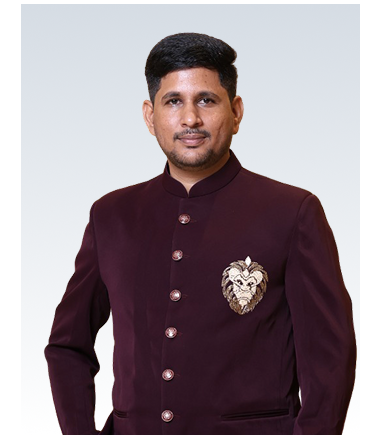
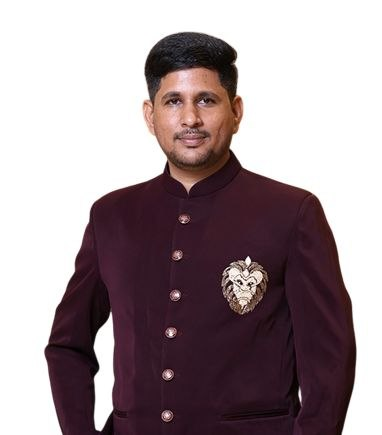
Update About page leadership section and profile images

diff --git a/src/pages/About.jsx b/src/pages/About.jsx
@@ -1,6 +1,7 @@
+
 import React from "react";
 import { motion } from "framer-motion";
-import { Flag, Eye } from "lucide-react";
+import { Flag, Eye, Linkedin } from "lucide-react";
 
 const About = () => {
   return (
@@ -18,20 +19,20 @@ const About = () => {
       </div>
 
       <div className="relative z-10">
-        <section className="relative flex min-h-[88svh] items-center justify-center overflow-hidden px-6 py-24 text-center md:py-28">
+        <section className="relative flex min-h-[72svh] items-center justify-center overflow-hidden px-6 pt-36 pb-20 text-center md:pt-32 md:pb-24">
           <motion.div
             initial={{ opacity: 0, y: 24 }}
             animate={{ opacity: 1, y: 0 }}
             transition={{ duration: 0.8 }}
-            className="relative z-10 mx-auto max-w-4xl"
+            className="relative z-10 mx-auto mt-4 md:mt-0 max-w-4xl"
           >
-            <div className="mx-auto inline-flex items-center gap-2 rounded-full border border-[#89b6ff]/35 bg-white/5 px-4 py-2 text-[12px] font-medium tracking-wide text-[#cfe0ff] backdrop-blur-xl">
+            <div className="mx-auto mt-14 md:mt-0 inline-flex items-center gap-2 rounded-full border border-[#89b6ff]/35 bg-white/5 px-4 py-2 text-[12px] font-medium tracking-wide text-[#cfe0ff] backdrop-blur-xl">
               <span className="h-2 w-2 rounded-full bg-[#4ea3ff]" />
               About T-Home
             </div>
 
-            <h1 className="mt-6 text-4xl font-bold leading-tight md:text-6xl">
-              Empowering Your <span className="text-[#66abff]">Financial Future</span>
+            <h1 className="mt-6 text-[42px] leading-[1.15] font-bold md:text-6xl">
+              Empowering Your <span className="text-[#2d8bff]">Financial Future</span>
             </h1>
 
             <p className="mx-auto mt-5 max-w-3xl text-base leading-8 text-[#d7def3] md:text-lg">
@@ -39,7 +40,7 @@ const About = () => {
               business growth, and compliance services feel straightforward instead of overwhelming.
             </p>
 
-            <div className="mx-auto mt-10 grid max-w-4xl gap-4 sm:grid-cols-3">
+            <div className="mx-auto mt-8 grid max-w-4xl gap-4 sm:grid-cols-3">
               {[
                 { value: "2025", label: "Founded" },
                 { value: "5k+", label: "Happy Clients" },
@@ -57,23 +58,23 @@ const About = () => {
           </motion.div>
         </section>
 
-        <section className="relative w-full py-[100px]">
+        <section className="relative w-full pt-1 pb-20">
           <div className="mx-auto max-w-7xl px-6 md:px-12">
             <div className="mx-auto max-w-4xl text-center">
               <h2 className="text-3xl font-semibold text-white md:text-4xl">A Journey of Trust and Innovation</h2>
-              <p className="mx-auto mt-4 max-w-3xl text-[15px] leading-7 text-[#d7def3]">
+              <p className="mx-auto mt-3 max-w-3xl text-[15px] leading-7 text-[#d7def3]">
                 Founded in 2025, T-Home bridges complex financial systems and everyday goals with a platform designed
                 to be transparent, intelligent, and easy to use.
               </p>
             </div>
 
-            <div className="mt-12 grid gap-6 md:grid-cols-2">
+            <div className="mx-auto mt-10 grid max-w-5xl gap-8 md:grid-cols-2">
               <motion.div
                 initial={{ opacity: 0, x: -30 }}
                 whileInView={{ opacity: 1, x: 0 }}
                 transition={{ duration: 0.7 }}
                 viewport={{ once: true }}
-                className="rounded-[20px] border border-[#c9dcff]/18 bg-[linear-gradient(180deg,rgba(30,45,95,0.5)_0%,rgba(20,31,76,0.44)_100%)] p-7 shadow-[inset_0_1px_0_rgba(255,255,255,0.14),0_10px_28px_rgba(0,0,0,0.2)] backdrop-blur-md"
+                className="rounded-[20px] border border-[#c9dcff]/18 bg-[linear-gradient(180deg,rgba(30,45,95,0.5)_0%,rgba(20,31,76,0.44)_100%)] p-6 shadow-[inset_0_1px_0_rgba(255,255,255,0.14),0_10px_28px_rgba(0,0,0,0.2)] backdrop-blur-md"
               >
                 <h3 className="text-2xl font-semibold text-white">What We Build</h3>
                 <p className="mt-4 text-[15px] leading-7 text-[#e3eeff]/88">
@@ -87,7 +88,7 @@ const About = () => {
                 whileInView={{ opacity: 1, x: 0 }}
                 transition={{ duration: 0.7 }}
                 viewport={{ once: true }}
-                className="rounded-[20px] border border-[#c9dcff]/18 bg-[linear-gradient(180deg,rgba(30,45,95,0.5)_0%,rgba(20,31,76,0.44)_100%)] p-7 shadow-[inset_0_1px_0_rgba(255,255,255,0.14),0_10px_28px_rgba(0,0,0,0.2)] backdrop-blur-md"
+                className="rounded-[20px] border border-[#c9dcff]/18 bg-[linear-gradient(180deg,rgba(30,45,95,0.5)_0%,rgba(20,31,76,0.44)_100%)] p-6 shadow-[inset_0_1px_0_rgba(255,255,255,0.14),0_10px_28px_rgba(0,0,0,0.2)] backdrop-blur-md"
               >
                 <h3 className="text-2xl font-semibold text-white">How We Work</h3>
                 <p className="mt-4 text-[15px] leading-7 text-[#e3eeff]/88">
@@ -99,14 +100,14 @@ const About = () => {
           </div>
         </section>
 
-        <section className="relative w-full py-[100px]">
+        <section className="relative w-full pt-1 pb-20">
           <div className="mx-auto max-w-7xl px-6 text-center md:px-12">
             <h2 className="text-3xl font-semibold text-white md:text-4xl">Our Core Principles</h2>
             <p className="mx-auto mt-3 max-w-2xl text-[#d7def3]">
               The driving force behind everything we do at T-Home.
             </p>
 
-            <div className="mt-12 grid gap-6 md:grid-cols-2">
+            <div className="mt-8 grid gap-6 md:grid-cols-2">
               <motion.div className="rounded-[18px] border border-[#d6e6ff]/18 bg-[linear-gradient(180deg,rgba(44,66,132,0.74)_0%,rgba(25,42,102,0.68)_100%)] p-7 shadow-[inset_0_1px_0_rgba(255,255,255,0.22),0_14px_38px_rgba(0,0,0,0.34)] backdrop-blur-md">
                 <h3 className="mb-3 flex items-center justify-center gap-2 text-xl font-semibold text-white">
                   <Flag className="h-5 w-5 text-[#66abff]" />
@@ -131,53 +132,236 @@ const About = () => {
           </div>
         </section>
 
-        <section className="relative w-full py-[100px]">
+        <section className="relative w-full pt-1 pb-20">
           <div className="mx-auto max-w-7xl px-6 text-center md:px-12">
             <h2 className="text-3xl font-semibold text-white md:text-4xl">Leadership</h2>
             <p className="mx-auto mt-3 max-w-2xl text-[#d7def3]">
               The people shaping the platform and guiding the product direction.
             </p>
 
-            <div className="mt-12 grid gap-6 md:grid-cols-2">
-              {[
-                {
-                  initials: "RR",
-                  name: "Ravinder Reddy Attapuram",
-                  role: "Founder & CEO",
-                  text: "Entrepreneur, strategist, and changemaker leading T-Home toward a future where finance is transparent, easy, and empowering.",
-                },
-                {
-                  initials: "KP",
-                  name: "K C Pratheek Reddy",
-                  role: "Co-Founder & CTO",
-                  text: "The tech visionary behind T-Home’s digital transformation, focused on scalable, intelligent, and reliable product experiences.",
-                },
-              ].map((leader) => (
-                <motion.div
-                  key={leader.name}
-                  className="rounded-[20px] border border-[#c9dcff]/18 bg-[linear-gradient(180deg,rgba(30,45,95,0.5)_0%,rgba(20,31,76,0.44)_100%)] p-8 shadow-[inset_0_1px_0_rgba(255,255,255,0.14),0_10px_28px_rgba(0,0,0,0.2)] backdrop-blur-md"
-                  whileHover={{ y: -4 }}
-                >
-                  <div className="mx-auto flex h-20 w-20 items-center justify-center rounded-full border border-[#89b6ff]/30 bg-[linear-gradient(180deg,rgba(58,108,197,0.46)_0%,rgba(36,73,148,0.4)_100%)] text-2xl font-bold text-white shadow-[inset_0_1px_0_rgba(255,255,255,0.24)]">
-                    {leader.initials}
-                  </div>
-                  <h3 className="mt-5 text-xl font-semibold text-white">{leader.name}</h3>
-                  <p className="mt-2 text-sm text-[#9fb8e8]">{leader.role}</p>
-                  <p className="mt-4 text-[15px] leading-7 text-[#d7def3]">{leader.text}</p>
-                </motion.div>
+            <div className="mt-8 grid gap-6 md:grid-cols-2">
+              { [
+  {
+    image: "/ceo.png",
+    name: "Ravinder Reddy Attapuram",
+    role: "Founder & CEO",
+    linkedin: "https://www.linkedin.com/in/ravinder-reddy-attapuram-a2676491/",
+    email: "ravinder.reddy@thome.co.in",
+    text:
+      "Entrepreneur, strategist, and changemaker leading T-Home toward a future where finance is transparent, easy, and empowering.",
+  },
+  {
+    image: "/cto.png",
+    name: "K C Pratheek Reddy",
+    role: "Co-Founder & CTO",
+    linkedin: "https://www.linkedin.com/in/kesara-chenna-pratheek-reddy",
+    email: "pratheek.kesara@thome.co.in",
+    text:
+      "The tech visionary behind T-Home’s digital transformation, focused on scalable, intelligent, and reliable product experiences.",
+  },
+].map((leader) => (
+                  <motion.div
+  key={leader.name}
+  whileHover={{ y: -6 }}
+  transition={{ duration: 0.35 }}
+  className="rounded-[18px]
+  border border-[#274786]
+  bg-[linear-gradient(180deg,#162347_0%,#101c39_100%)]
+  px-8
+  py-8
+  text-center
+  shadow-[0_20px_60px_rgba(0,0,0,.35)]
+"
+>
+
+  {/* IMAGE */}
+
+  <div className="relative mx-auto w-fit">
+
+    <div
+      className="
+      h-40
+      w-40
+      rounded-full
+      border-[4px]
+      border-[#25b9ff]
+      bg-white
+      p-1
+      shadow-[0_0_35px_rgba(37,185,255,.6)]
+      "
+    >
+      <img
+        src={leader.image}
+        alt={leader.name}
+        className="h-full w-full rounded-full object-cover"
+      />
+    </div>
+
+  </div>
+
+  {/* ICONS */}
+
+  <div className="mt-4 flex justify-center gap-3">
+
+    <a
+      href={leader.linkedin}
+      target="_blank"
+      rel="noopener noreferrer"
+      className="
+      flex
+      h-9
+      w-9
+      items-center
+      justify-center
+      rounded-full
+      bg-[#0A66C2]
+      text-white
+      transition
+      hover:scale-110
+      "
+    >
+      <Linkedin size={16}/>
+    </a>
+
+<a
+  href={`mailto:${leader.email}`}
+  className="
+    flex
+    h-9
+    w-9
+    items-center
+    justify-center
+    rounded-full
+    border
+    border-white/20
+    text-white
+    transition
+    hover:scale-110
+  "
+>
+  ✉
+</a>
+
+  </div>
+
+  {/* ROLE */}
+
+  <div
+    className="
+    mx-auto
+    mt-4
+    inline-flex
+    rounded-full
+    bg-[#20356f]
+    px-4
+    py-1
+    text-[11px]
+    font-medium
+    uppercase
+    tracking-wide
+    text-[#b7d5ff]
+    "
+  >
+    {leader.role}
+  </div>
+
+  {/* NAME */}
+
+  <h3 className="mt-5 text-[28px] font-semibold text-white">
+
+    {leader.name}
+
+  </h3>
+
+  {/* SUBTITLE */}
+
+  <p className="mt-2 text-sm text-[#bdd1f7]">
+
+    {leader.role.includes("CEO")
+      ? "Entrepreneur • Strategist • Changemaker"
+      : "Tech Visionary • Innovator • Problem Solver"}
+
+  </p>
+
+  {/* DESCRIPTION */}
+
+  <p className="mx-auto mt-4 max-w-sm text-[14px] leading-7 text-[#d2def9]">
+
+    {leader.text}
+
+  </p>
+
+  {/* FEATURE BOXES */}
+
+  <div className="mt-7 grid grid-cols-3 gap-3">
+
+    {leader.role.includes("CEO")
+      ? (
+        <>
+          <div className="rounded-xl border border-[#2e4d86] bg-[#14254a] p-3">
+            <p className="text-lg font-bold text-white">10+</p>
+            <p className="text-[11px] text-[#9bb8ea]">Years Experience</p>
+          </div>
+
+          <div className="rounded-xl border border-[#2e4d86] bg-[#14254a] p-3">
+            <p className="text-lg">🚀</p>
+            <p className="text-[11px] text-[#9bb8ea]">Visionary Leadership</p>
+          </div>
+
+          <div className="rounded-xl border border-[#2e4d86] bg-[#14254a] p-3">
+            <p className="text-lg">❤</p>
+            <p className="text-[11px] text-[#9bb8ea]">Customer First</p>
+          </div>
+        </>
+      )
+      : (
+        <>
+          <div className="rounded-xl border border-[#2e4d86] bg-[#14254a] p-3">
+            <p className="text-lg">&lt;/&gt;</p>
+            <p className="text-[11px] text-[#9bb8ea]">Tech Expert</p>
+          </div>
+
+          <div className="rounded-xl border border-[#2e4d86] bg-[#14254a] p-3">
+            <p className="text-lg">🗄</p>
+            <p className="text-[11px] text-[#9bb8ea]">Scalable Solutions</p>
+          </div>
+
+          <div className="rounded-xl border border-[#2e4d86] bg-[#14254a] p-3">
+            <p className="text-lg">✔</p>
+            <p className="text-[11px] text-[#9bb8ea]">Reliable Products</p>
+          </div>
+        </>
+      )}
+
+  </div>
+
+</motion.div>
               ))}
             </div>
           </div>
-        </section>
+           <div className="mt-10 flex items-center justify-center gap-2 text-sm text-[#9fb8e8]">
 
-        <section className="relative w-full py-[100px] text-center">
+    <span>◎</span>
+
+    <span>
+      United by a shared vision to
+      <span className="text-[#36a8ff]"> simplify finance </span>
+      and
+      <span className="text-[#36a8ff]"> empower lives.</span>
+    </span>
+
+  </div>
+
+        </section>
+       
+        <section className="relative w-full pt-1 pb-20 text-center">
           <div className="mx-auto max-w-7xl px-6 md:px-12">
             <h2 className="text-3xl font-semibold text-white md:text-4xl">Why Choose T-Home</h2>
             <p className="mx-auto mt-3 max-w-2xl text-[#d7def3]">
               Everything you need in one place.
             </p>
 
-            <div className="mt-12 grid grid-cols-2 gap-6 md:grid-cols-4 md:gap-8">
+            <div className="mt-8 grid grid-cols-2 gap-6 md:grid-cols-4 md:gap-6">
               {[
                 { value: "5k+", label: "Loans Approved" },
                 { value: "95%", label: "Approval Rate" },
